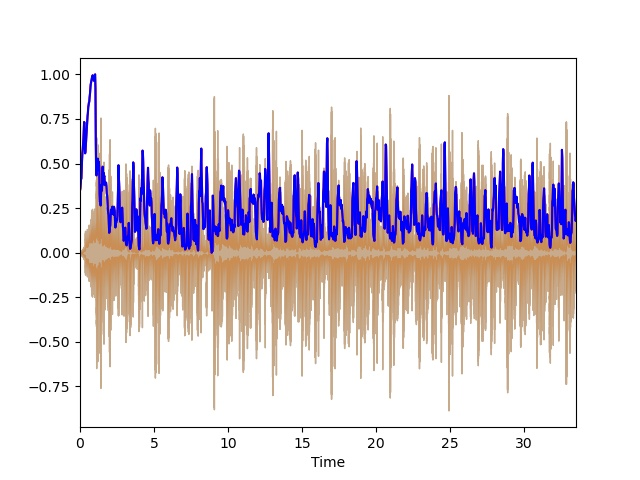
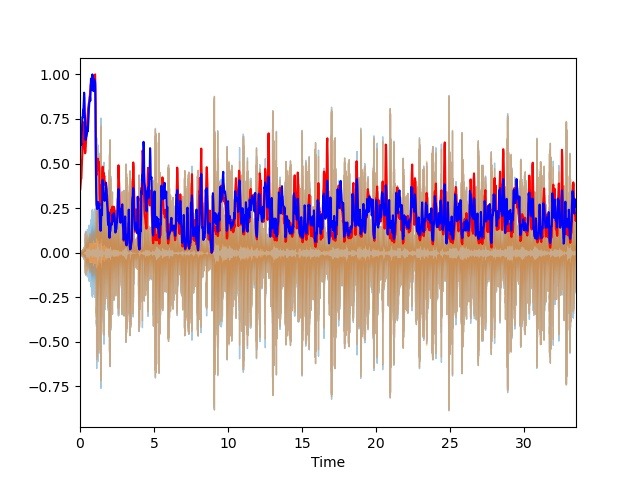
final

Changed region(s): [[0.125, 0.1562, 0.9062, 0.625]]

diff --git a/park/score.js b/park/score.js
@@ -38,7 +38,7 @@ export default function ScoreScreen({navigation}) {
     //console.log(usersRef.key);
     let message;
     //읽어오기
-    const m = firebase.database().ref('Score/Score3').on('value',function(snapshot){
+    const m = firebase.database().ref('Score').on('value',function(snapshot){
      message =snapshot.val();
      console.log(message);
     });
@@ -62,7 +62,7 @@ export default function ScoreScreen({navigation}) {
           <View style={styles.footer}>
           <Button
             title="Back to home"
-            onPress={() => navigation.navigate('HomeScreen')}
+            onPress={() => navigation.navigate('ParkScreen')}
             color="#841584"
         />  
           </View>

diff --git a/park/완성.py b/park/완성.py
@@ -16,10 +16,14 @@ from playsound import playsound
 from os import path
 from pydub import AudioSegment
 import pydub
+#from ffprobe import FFProbe
 #import ffprobe
 #import subprocess
 #subprocess.call(['path/to/ffmpeg','-i','2.mp3','3.mp3'])
 #pydub.AudioSegment.ffmpeg = "ffmpeg"
+
+#import sys
+#sys.path.append('/Library/Frameworks/Python.framework/Versions/3.8/lib/python3.8/site-packages/ffmpeg')
 
 sum_frequency=0
 sum_times=0
@@ -34,23 +38,28 @@ firebase_admin.initialize_app(cred,{
          'storageBucket': "graduation-4651e.appspot.com",
   })
 
-# files                                                                         
-#src = "2.mp3"
-#dst = "2.wav"
-#src1 = "3.mp3"
-#dst1 = "3.wav"
+dir = db.reference('InputFile')
+input_file = dir.get()
+dir2 = db.reference('VoiceFile')
+voice_file = dir2.get()
+dir = db.reference('InputStore')
+input_store = dir.get()
+dir2 = db.reference('VoiceStore')
+voice_store = dir2.get()
 
-# convert wav to mp3                                                            
-#sound = AudioSegment.from_mp3(src)
-#sound.export(dst, format="wav")
+input_file="music/"+input_file[0]
+voice_file="music/"+voice_file[0]
+
+
+input_store.append(input_file)
+voice_store.append(voice_file)
 
 dir = db.reference() 
-dir.update({'FilePath':['music/0.wav','music/1.wav']})
+dir.update({'InputStore':input_store})
+dir.update({'VoiceStore':voice_store})
 
-dir = db.reference('FilePath') 
-path=dir.get()
 
-name = [path[0],path[0]]
+name = [input_file,voice_file]
 
 #test data set
 test_sample_rate, test_samples = wavfile.read(name[0])
@@ -112,7 +121,7 @@ dir.update({'Score':[accuracy]})
 
 FIG_SIZE = (14,5)
 #x는 파형의 amplitude 값, sr은 sampling rate
-x, sr = librosa.load(path[0])
+x, sr = librosa.load(name[0])
 
 #spectral centroid
 spectral_centroids = librosa.feature.spectral_centroid(x, sr=sr)[0]
@@ -126,7 +135,7 @@ def normalize(x, axis=0):
 librosa.display.waveplot(x, sr=sr, alpha=0.4)
 plt.plot(t, normalize(spectral_centroids), color='r')
 
-x2, sr2 = librosa.load(path[0])
+x2, sr2 = librosa.load(name[1])
 
 #spectral centroid
 spectral_centroids = librosa.feature.spectral_centroid(x2, sr=sr2)[0]
@@ -139,5 +148,4 @@ def normalize(x, axis=0):
 
 librosa.display.waveplot(x2, sr=sr2, alpha=0.4)
 plt.plot(t, normalize(spectral_centroids), color='b')
-#plt.show()
 plt.savefig("./image/sample.jpg")
